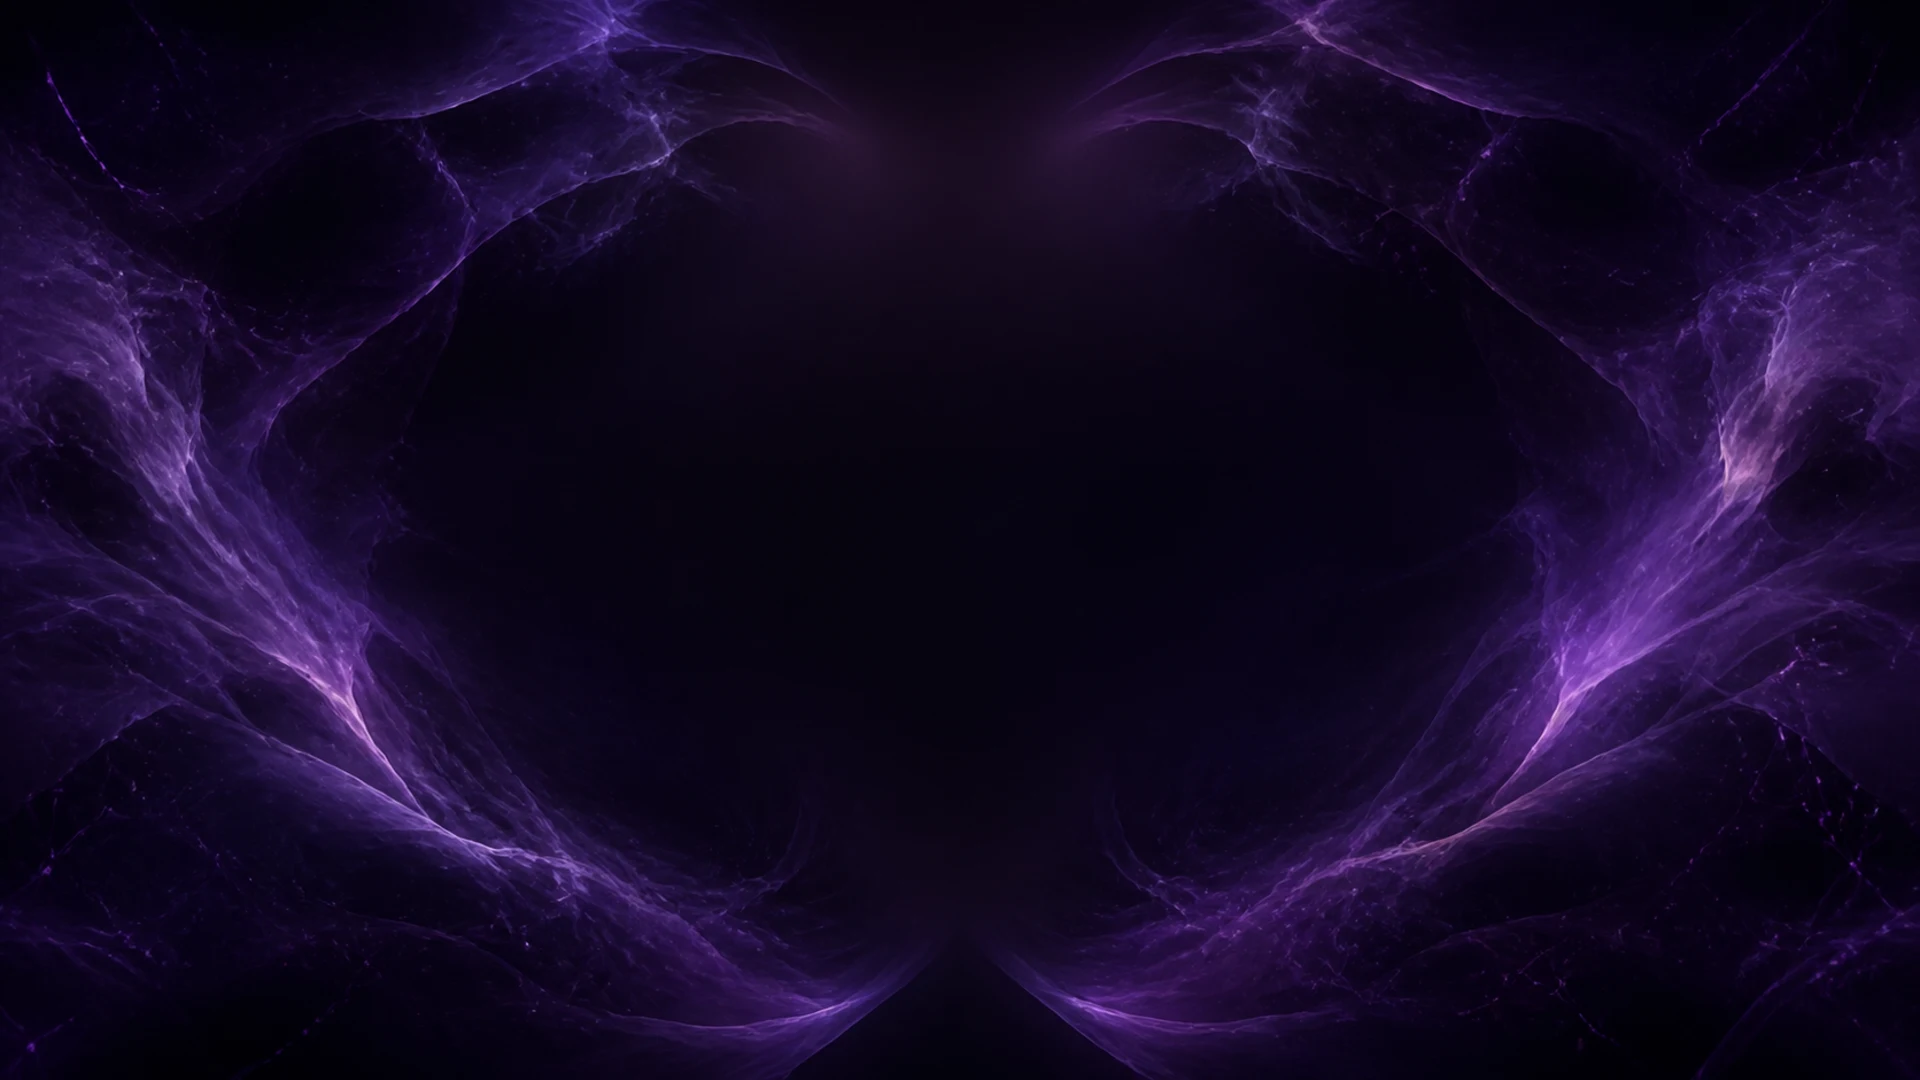
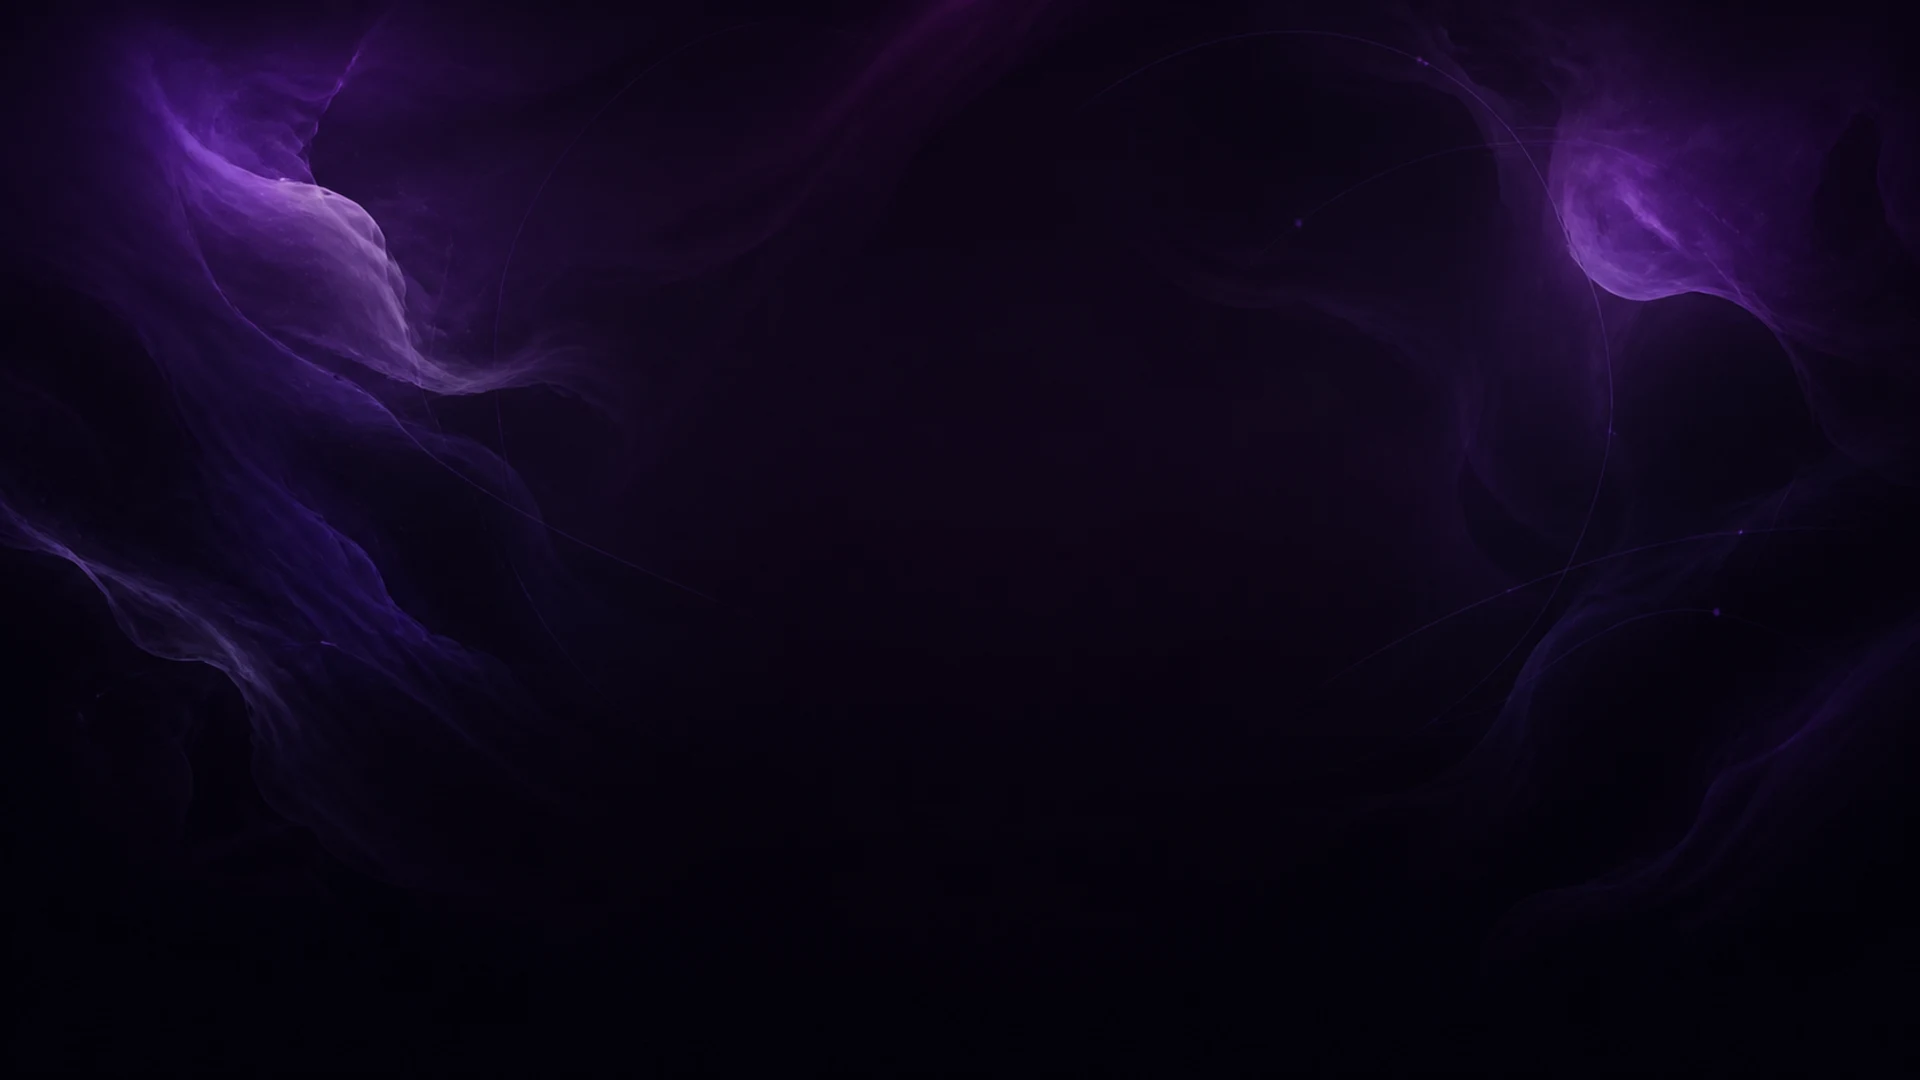
Replace the hero dashboard with atmospheric purple fire

diff --git a/docs/src/styles/global.css b/docs/src/styles/global.css
@@ -424,33 +424,71 @@ details summary::-webkit-details-marker {
 
 .shadow-hero {
   min-height: calc(100svh - 4rem);
+  padding-bottom: clamp(8rem, 16vw, 15rem);
   background: #08040e;
 }
 
+.shadow-hero-art {
+  bottom: 0;
+  overflow: hidden;
+  mask-image: linear-gradient(
+    to bottom,
+    #000 0%,
+    #000 57%,
+    rgba(0, 0, 0, 0.82) 68%,
+    rgba(0, 0, 0, 0.24) 84%,
+    transparent 100%
+  );
+}
+
 .shadow-hero-image {
-  filter: saturate(0.92) contrast(1.08);
-  transform: scale(1.02);
+  filter: saturate(0.94) contrast(1.08);
+  transform: scale(1.035);
+  transform-origin: 50% 28%;
+}
+
+.shadow-hero-fire {
+  opacity: 0.19;
+  filter: saturate(0.78) blur(0.4px);
+  mask-image: linear-gradient(
+    to bottom,
+    rgba(0, 0, 0, 0.64) 0%,
+    #000 52%,
+    rgba(0, 0, 0, 0.72) 74%,
+    transparent 100%
+  );
 }
 
 .shadow-hero-wash {
   background:
     radial-gradient(
-      58% 60% at 50% 30%,
-      rgba(8, 4, 14, 0.2) 0%,
-      rgba(8, 4, 14, 0.67) 64%,
-      rgba(8, 4, 14, 0.9) 100%
+      52% 43% at 50% 35%,
+      rgba(8, 4, 14, 0.05) 0%,
+      rgba(8, 4, 14, 0.18) 66%,
+      rgba(8, 4, 14, 0.48) 100%
     ),
     linear-gradient(
       to bottom,
-      rgba(8, 4, 14, 0.22) 0%,
-      rgba(8, 4, 14, 0.1) 45%,
+      rgba(8, 4, 14, 0.06) 0%,
+      rgba(8, 4, 14, 0.12) 50%,
+      rgba(8, 4, 14, 0.82) 82%,
       var(--background) 100%
     );
 }
 
+.hero-mark-space {
+  min-height: clamp(25rem, 50vh, 36rem);
+  padding-top: clamp(2.5rem, 7vh, 5rem);
+}
+
+.hero-copy {
+  margin-top: clamp(2.5rem, 6vh, 5.5rem);
+}
+
 .hero-mark {
-  filter: drop-shadow(0 0 20px rgba(170, 92, 255, 0.28))
-    drop-shadow(0 22px 36px rgba(5, 1, 12, 0.72));
+  filter: drop-shadow(0 0 28px rgba(170, 92, 255, 0.3))
+    drop-shadow(0 26px 42px rgba(5, 1, 12, 0.74));
+  animation: hero-mark-float 7s 1.15s ease-in-out infinite;
   will-change: transform;
 }
 
@@ -464,22 +502,7 @@ details summary::-webkit-details-marker {
   animation-delay: 180ms;
 }
 .hero-sequence > :nth-child(2) {
-  animation-delay: 300ms;
-}
-.hero-sequence > :nth-child(3) {
-  animation-delay: 420ms;
-}
-.hero-sequence > :nth-child(4) {
-  animation-delay: 540ms;
-}
-.hero-sequence > :nth-child(5) {
-  animation-delay: 660ms;
-}
-
-.hero-sequence > .hero-mark {
-  animation:
-    hero-rise 700ms 180ms cubic-bezier(0.22, 1, 0.36, 1) forwards,
-    hero-mark-float 7s 1.15s ease-in-out infinite;
+  animation-delay: 320ms;
 }
 
 @keyframes hero-mark-float {
@@ -492,23 +515,15 @@ details summary::-webkit-details-marker {
   }
 }
 
-.hero-window {
-  opacity: 0;
-  transform: translateY(24px) scale(0.985);
-  animation: window-rise 850ms 620ms cubic-bezier(0.22, 1, 0.36, 1) forwards;
+.hero-followup {
+  position: relative;
+  z-index: 1;
 }
 
 @keyframes hero-rise {
   to {
     opacity: 1;
     transform: translateY(0);
-  }
-}
-
-@keyframes window-rise {
-  to {
-    opacity: 1;
-    transform: translateY(0) scale(1);
   }
 }
 
@@ -669,13 +684,12 @@ details summary::-webkit-details-marker {
   }
   .js .reveal,
   .hero-sequence > *,
-  .hero-window,
   .ascii-waves canvas {
     opacity: 1;
     transform: none;
     animation: none;
   }
-  .hero-sequence > .hero-mark {
+  .hero-mark {
     animation: none;
   }
 }
